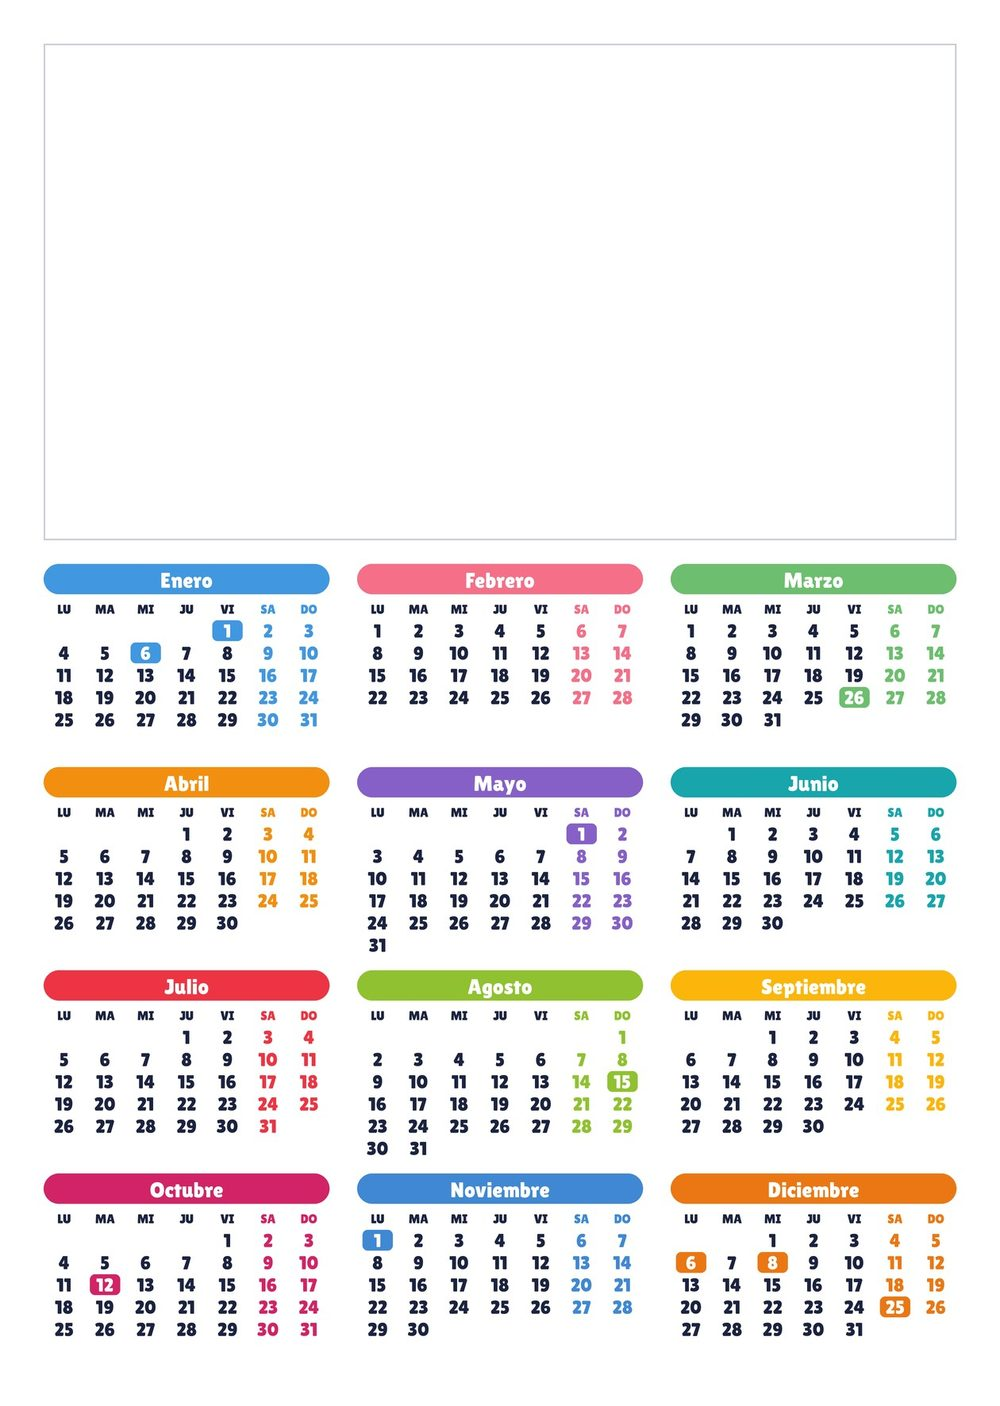
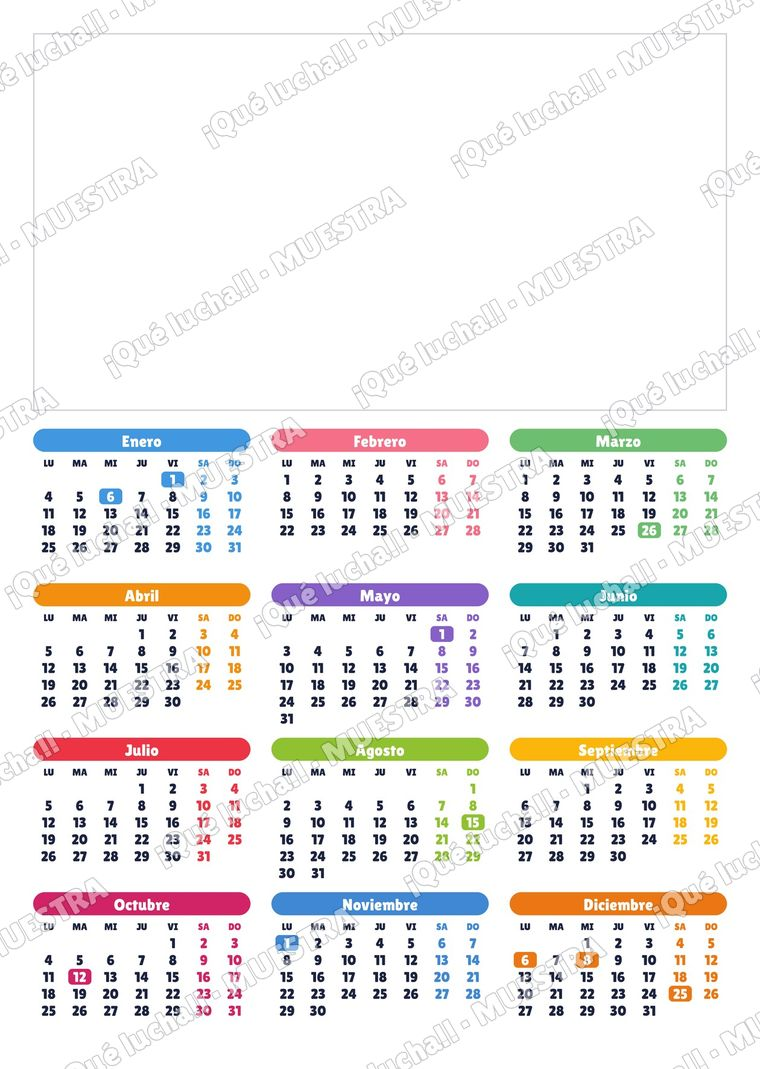
Archivos de imprenta al almacén privado; lupa a 760 px con marca de agua y sin guardar imagen
Claude-Session: https://claude.ai/code/session_014LaVcvbzxQCe9KhagWJ2yQ

diff --git a/visor.js b/visor.js
@@ -6,7 +6,7 @@
     '.qlv-tit{font-size:17px;font-weight:700}.qlv-tit small{font-weight:400;opacity:.75;margin-left:6px;font-size:14px}'+
     '.qlv-x{width:44px;height:44px;border-radius:50%;border:0;background:rgba(255,255,255,.14);color:#fff;font-size:22px;line-height:1;cursor:pointer;flex:none}'+
     '.qlv-zona{position:relative;flex:1;min-height:0;width:100%;max-width:720px;display:flex;align-items:center;justify-content:center}'+
-    '.qlv-zona img{max-width:100%;max-height:100%;object-fit:contain;border-radius:6px;box-shadow:0 6px 28px rgba(0,0,0,.5);background:#fff;user-select:none;-webkit-user-drag:none}'+
+    '.qlv-zona img{max-width:100%;max-height:100%;object-fit:contain;border-radius:6px;box-shadow:0 6px 28px rgba(0,0,0,.5);background:#fff;user-select:none;-webkit-user-select:none;-webkit-user-drag:none;-webkit-touch-callout:none;pointer-events:none}'+
     '.qlv-cargando{font-size:14px;opacity:.8}'+
     '.qlv-fl{position:absolute;top:50%;transform:translateY(-50%);width:48px;height:48px;border-radius:50%;border:0;background:rgba(255,255,255,.92);color:#111827;font-size:28px;line-height:1;cursor:pointer;box-shadow:0 2px 8px rgba(0,0,0,.35);display:flex;align-items:center;justify-content:center;padding:0 0 3px}'+
     '.qlv-fl.i{left:4px}.qlv-fl.d{right:4px}'+
@@ -18,6 +18,18 @@
 
   var LUPA='<svg width="18" height="18" viewBox="0 0 24 24" fill="none" stroke="#0B7C82" stroke-width="2.4" stroke-linecap="round" aria-hidden="true"><circle cx="10.5" cy="10.5" r="6.5"/><path d="M15.5 15.5L21 21M10.5 7.5v6M7.5 10.5h6"/></svg>';
   function lupa(attr,nombre){ return '<button type="button" class="qlv-lupa" '+attr+' aria-label="Ver '+(nombre||"")+' en grande">'+LUPA+'</button>'; }
+
+  // Copia reducida (760 px de ancho) con la marca de agua "¡Qué lucha!! · MUESTRA" en diagonal. Devuelve un JPG.
+  function marca(src){
+    var W=760, H=Math.round(W*src.height/src.width), cv=document.createElement("canvas"); cv.width=W; cv.height=H;
+    var g=cv.getContext("2d"); g.imageSmoothingQuality="high"; g.drawImage(src,0,0,W,H);
+    var txt="¡Qué lucha!! · MUESTRA"; g.font='34px "QL Titulo","Lilita One",system-ui,sans-serif';
+    var tw=g.measureText(txt).width, px=tw+60, py=150, D=Math.hypot(W,H);
+    g.save(); g.translate(W/2,H/2); g.rotate(-Math.PI/6);
+    g.lineWidth=1.5; g.strokeStyle="rgba(17,24,39,.24)"; g.fillStyle="rgba(255,255,255,.42)"; g.textBaseline="top";
+    for(var f=0,y=-D/2; y<D/2; y+=py,f++) for(var x=-D/2-(f%2)*px/2; x<D/2; x+=px){ g.strokeText(txt,x,y); g.fillText(txt,x,y); }
+    g.restore(); return cv.toDataURL("image/jpeg",.8);
+  }
 
   var cache={};
   function url(it){
@@ -55,6 +67,7 @@
     function mover(d){ if(n<2) return; i=(i+d+n)%n; pinta(); }
     function cerrar(){ document.removeEventListener("keydown",tecla); document.body.style.overflow=ov; el.remove(); if(previo&&previo.focus) previo.focus(); }
     function tecla(e){ if(e.key==="Escape") cerrar(); else if(e.key==="ArrowLeft") mover(-1); else if(e.key==="ArrowRight") mover(1); }
+    el.addEventListener("contextmenu",function(e){ e.preventDefault(); });   // sin "Guardar imagen"
     el.querySelector(".qlv-x").onclick=cerrar;
     if(n>1){ el.querySelector(".qlv-fl.i").onclick=function(){ mover(-1); }; el.querySelector(".qlv-fl.d").onclick=function(){ mover(1); }; }
     if(ok) ok.onclick=function(){ var j=i; cerrar(); if(o.elegido!==j) o.onElegir(j); };
@@ -66,5 +79,5 @@
     document.addEventListener("keydown",tecla);
     document.body.appendChild(el); pinta(); el.querySelector(".qlv-x").focus();
   }
-  window.QLVisor={abrir:abrir,lupa:lupa};
+  window.QLVisor={abrir:abrir,lupa:lupa,marca:marca};
 })();

diff --git a/admin.html b/admin.html
@@ -172,6 +172,44 @@ async function cargar(){
   catch(e){ errorCarga=e.message; }
   await cargarApuntados();
   cargando=false; pintar();
+  migrarPlantillas();
+}
+// ---------- Archivos de imprenta en el almacén privado de Supabase (bucket "plantillas") ----------
+// No están en la web pública. Solo el panel (con sesión) puede leerlos.
+// Para añadir uno nuevo: subirlo a la web con la misma ruta y añadirlo a esta lista; al abrir el panel se pasa
+// solo al almacén privado. Después se borra de la web.
+const ARCH_IMPRENTA=["disenos/quelucha/base_full.jpg","disenos/colores/base_full.jpg",
+  "disenos/conejo/base_full.jpg","disenos/conejo/marco_full.png","disenos/raton/base_full.jpg","disenos/raton/marco_full.png",
+  "disenos/nido/base_full.jpg","disenos/nido/marco_full.png",
+  "disenos/cojin_jubilacion/base_full.png","disenos/cojin_jubilacion/jubilada_morena_full.png","disenos/cojin_jubilacion/jubilada_rubia_full.png"];
+const _plant={};
+function urlPlantilla(ruta){
+  if(!_plant[ruta]) _plant[ruta]=api("/storage/v1/object/authenticated/plantillas/"+ruta)
+    .then(r=>r.blob()).then(b=>URL.createObjectURL(b))
+    .catch(e=>{ delete _plant[ruta]; throw new Error("No se encuentra el archivo de imprenta "+ruta+" en el almacén privado"); });
+  return _plant[ruta];
+}
+if(window.QLTextos) QLTextos.resolver=urlPlantilla;
+let migrando=false;
+async function migrarPlantillas(){
+  if(migrando) return; migrando=true;
+  try{
+    const carpetas=[...new Set(ARCH_IMPRENTA.map(r=>r.slice(0,r.lastIndexOf("/")+1)))], hay=new Set();
+    for(const c of carpetas){
+      const l=await (await api("/storage/v1/object/list/plantillas",{method:"POST",headers:{"Content-Type":"application/json"},body:JSON.stringify({prefix:c,limit:1000})})).json();
+      (l||[]).forEach(o=>hay.add(c+o.name));
+    }
+    let n=0;
+    for(const r of ARCH_IMPRENTA){
+      if(hay.has(r)) continue;
+      const w=await fetch(r,{cache:"no-store"}); if(!w.ok) continue;   // ya no está en la web: nada que pasar
+      const b=await w.blob(); if(!/^image\//.test(b.type)) continue;
+      await api("/storage/v1/object/plantillas/"+r,{method:"POST",headers:{"Content-Type":b.type,"x-upsert":"true"},body:b});
+      n++;
+    }
+    if(n) aviso(n+" archivo"+(n>1?"s":"")+" de imprenta guardado"+(n>1?"s":"")+" en el almacén privado.");
+  }catch(e){ console.warn("Plantillas:",e); }
+  migrando=false;
 }
 async function guardarCambios(p,cambios){
   Object.assign(p,cambios);
@@ -508,7 +546,7 @@ let generado=null; // {num, canvas}
 function cargarImg(src){ return new Promise((res,rej)=>{ const i=new Image(); i.onload=()=>res(i); i.onerror=()=>rej(new Error("No se pudo cargar "+src)); i.src=src; }); }
 async function componerFinal(p){
   const d=p.datos.disposicion, pl=PLANTILLAS[d.diseno];
-  const [bi,mi]=await Promise.all([cargarImg(pl.base),pl.marco?cargarImg(pl.marco):null]);
+  const [bi,mi]=await Promise.all([urlPlantilla(pl.base).then(cargarImg),pl.marco?urlPlantilla(pl.marco).then(cargarImg):null]);
   const W=bi.naturalWidth, H=Math.round(W*HC/WC), k=W/WC, z=d.zona_cm;
   const cv=document.createElement("canvas"); cv.width=W; cv.height=H; const g=cv.getContext("2d");
   g.drawImage(bi,0,0,W,H);

diff --git a/personalizar.html b/personalizar.html
@@ -178,8 +178,8 @@ function verGrande(id){
   const items=L.map(pj=>({nombre:pj.nombre, clave:pj.id+firma, crear:async()=>{
     const img=S.imgs[pj.id]||(S.imgs[pj.id]=await T.cargar(D,false,pj.id));
     const plano=document.createElement("canvas");
-    if(S.vista==="cojin"&&S.foto){ T.dibujar(plano,D,S.textos,img,1000,S.formas,true); const cv=document.createElement("canvas"); T.dibujarMockup(cv,D,plano,S.foto); return cv.toDataURL("image/jpeg",.9); }
-    T.dibujar(plano,D,S.textos,img,1000,S.formas); return plano.toDataURL("image/jpeg",.9); }}));
+    if(S.vista==="cojin"&&S.foto){ T.dibujar(plano,D,S.textos,img,1000,S.formas,true); const cv=document.createElement("canvas"); T.dibujarMockup(cv,D,plano,S.foto); return QLVisor.marca(cv); }
+    T.dibujar(plano,D,S.textos,img,1000,S.formas); return QLVisor.marca(plano); }}));
   QLVisor.abrir({items, idx:Math.max(0,L.findIndex(p=>p.id===id)), elegido:L.findIndex(p=>p.id===S.personaje),
     boton:"Elegir este personaje", botonYa:"✓ Personaje elegido",
     onElegir:j=>{ const b=document.querySelector('[data-pj="'+L[j].id+'"]'); if(b) b.click(); }});

diff --git a/textos.js b/textos.js
@@ -54,7 +54,9 @@ function personaje(d,pid){ const l=d.personajes||[]; return l.find(p=>p.id===pid
 function cargar(d,full,pid){
   const logo=d.logo&&!d.logoImg?cargarImagen(d.logo.src).then(i=>{ d.logoImg=i; }).catch(()=>{}):null;
   const pj=personaje(d,pid), src=pj?(full?pj.baseFull:pj.base):(full?d.baseFull:d.base);
-  return Promise.all([cargarFuentes(),cargarImagen(src),logo]).then(r=>r[1]);
+  // Los archivos de imprenta (full) están en el almacén privado: el panel pone QLTextos.resolver para leerlos
+  const R=window.QLTextos&&QLTextos.resolver, img=(full&&R)?R(src).then(cargarImagen):cargarImagen(src);
+  return Promise.all([cargarFuentes(),img,logo]).then(r=>r[1]);
 }
 
 const FAM={azul:"QL Titulo",rojo:"QL Destacado",mano:"QL Mano"};

diff --git a/pedir.html b/pedir.html
@@ -455,7 +455,7 @@ function hoja12Grande(v){
     const img=await cargarImg("img/ejemplo-12hojas.jpg");
     const z=QLCal12.zona(false), r=Math.max(z.w/img.width, z.h/img.height), w=img.width*r, h=img.height*r;
     const cv=QLCal12.hojaCanvas({anio, mes:0, paleta:v.id, fotos:[{img, x:(z.w-w)/2, y:(z.h-h)/2, w, h}]}, 0.4);
-    return cv.toDataURL("image/jpeg",.88); }};
+    return QLVisor.marca(cv); }};
 }
 function verGrande(id){
   const p=prod();
